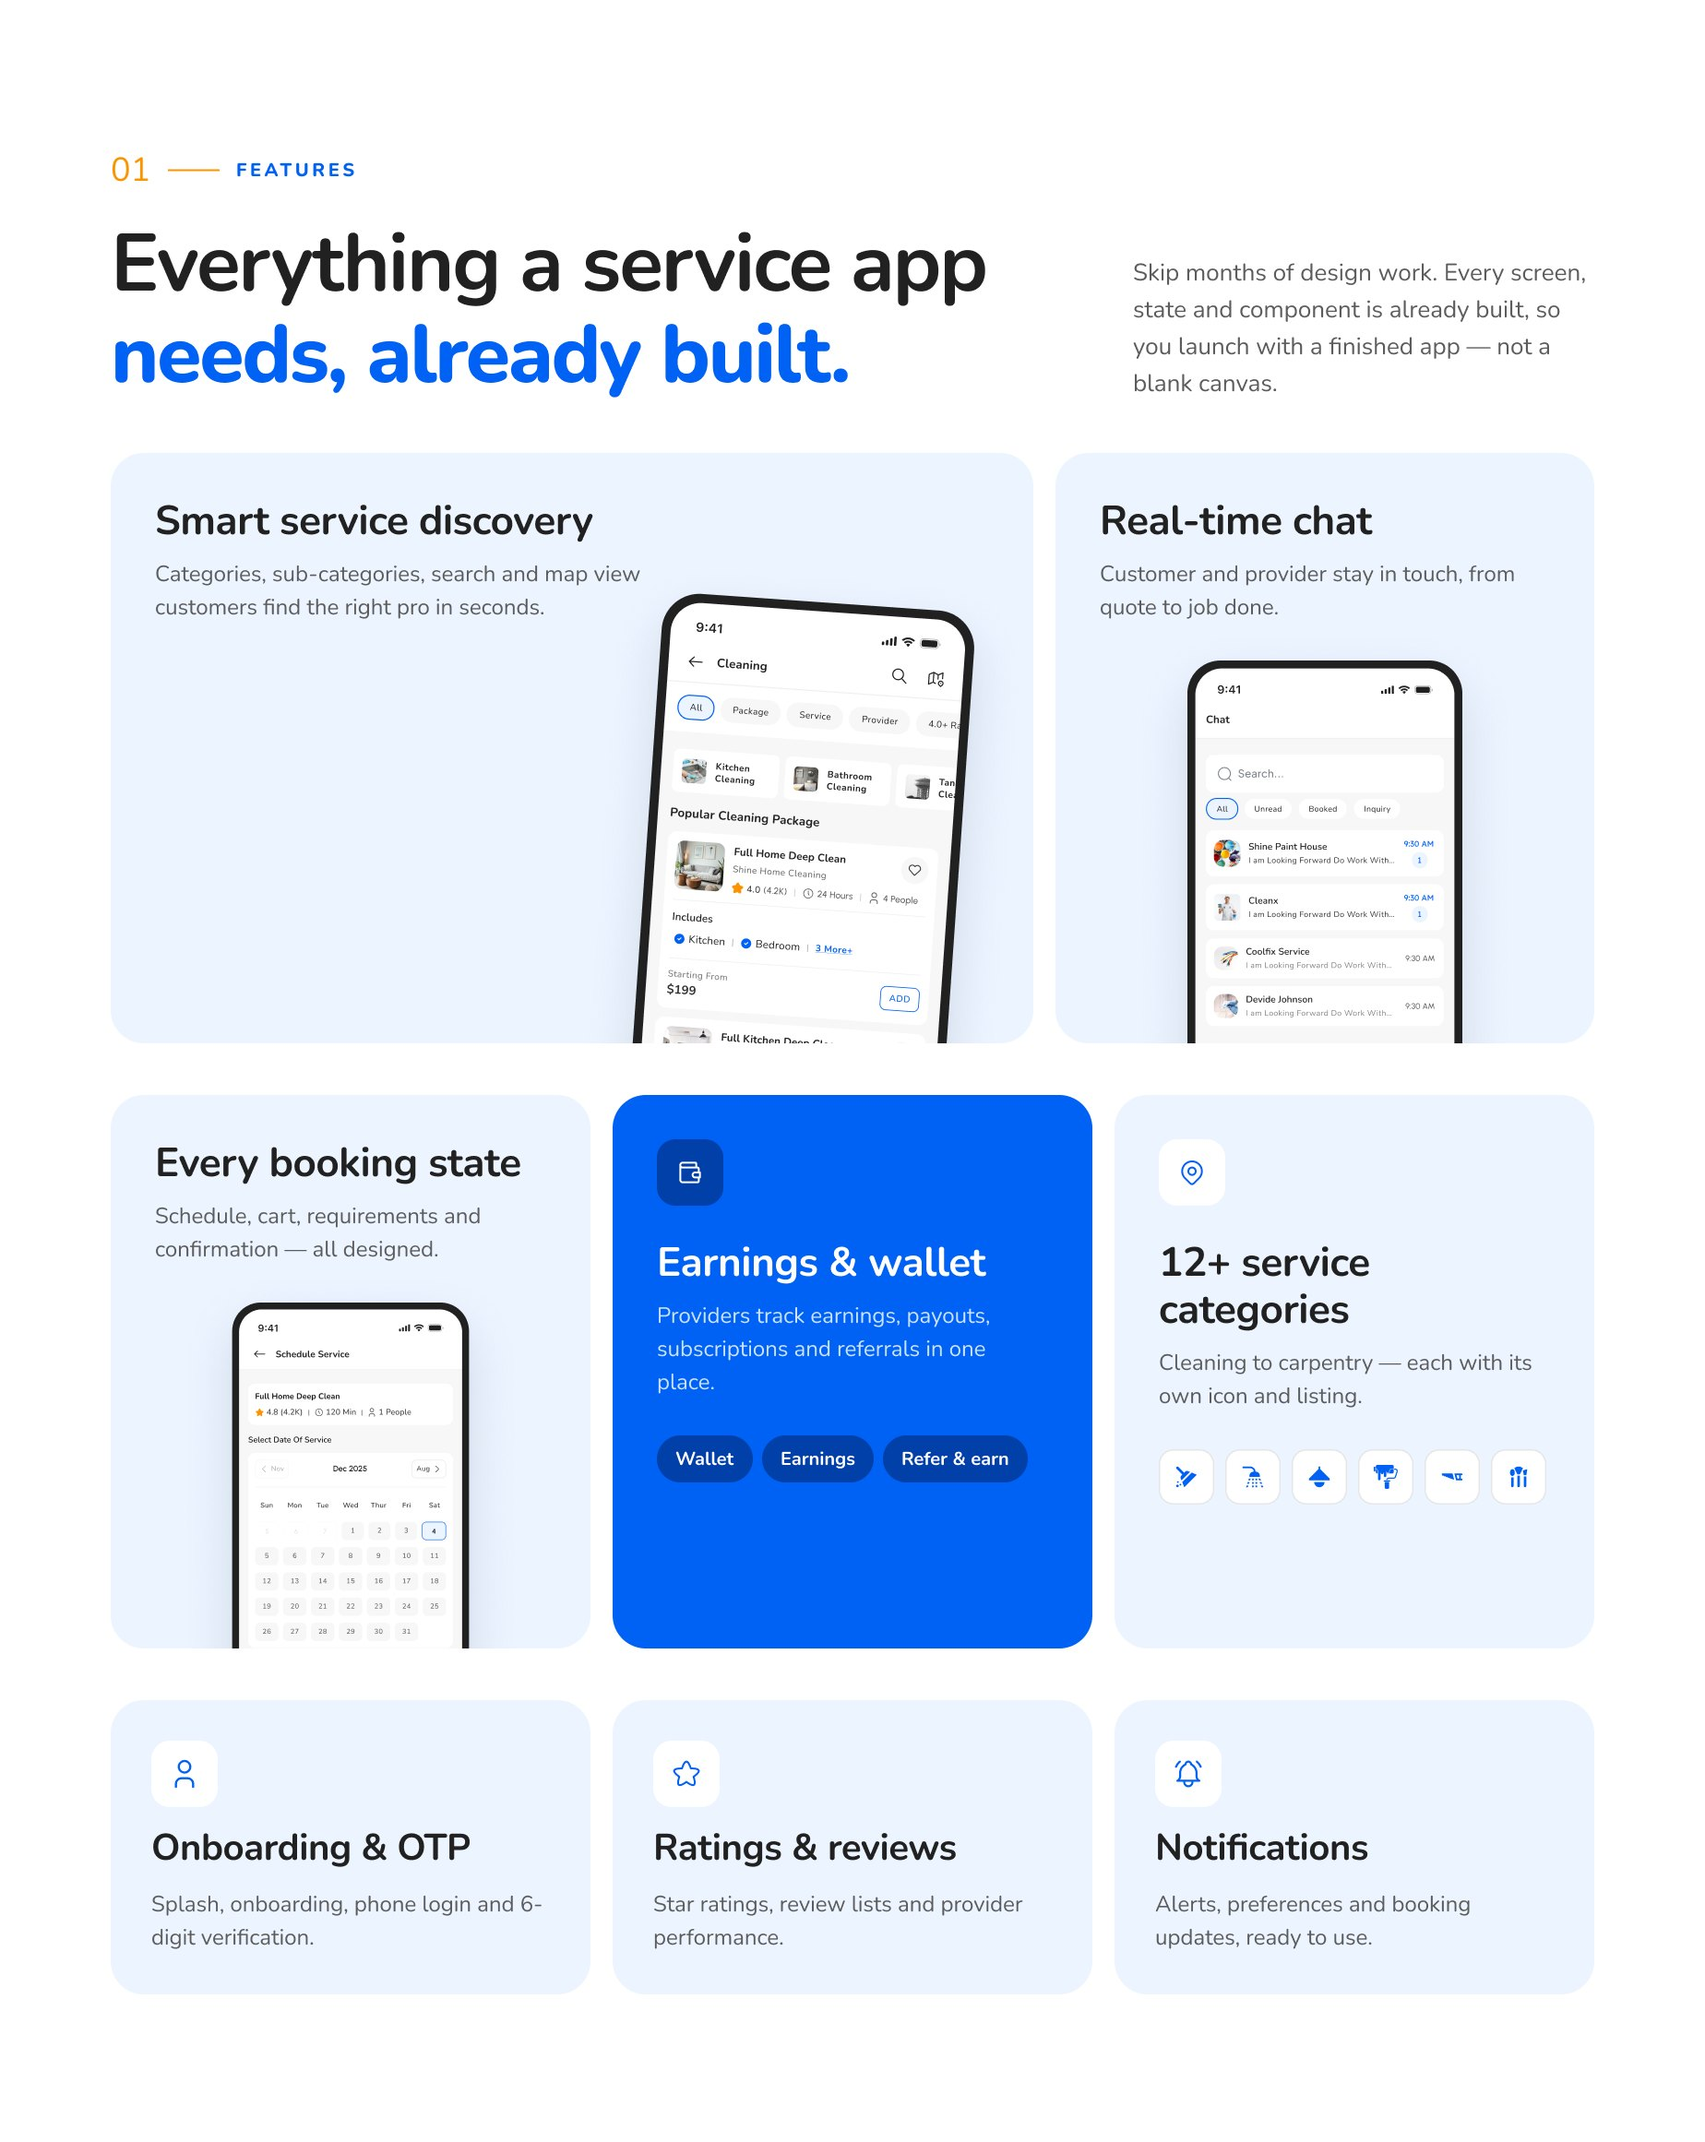
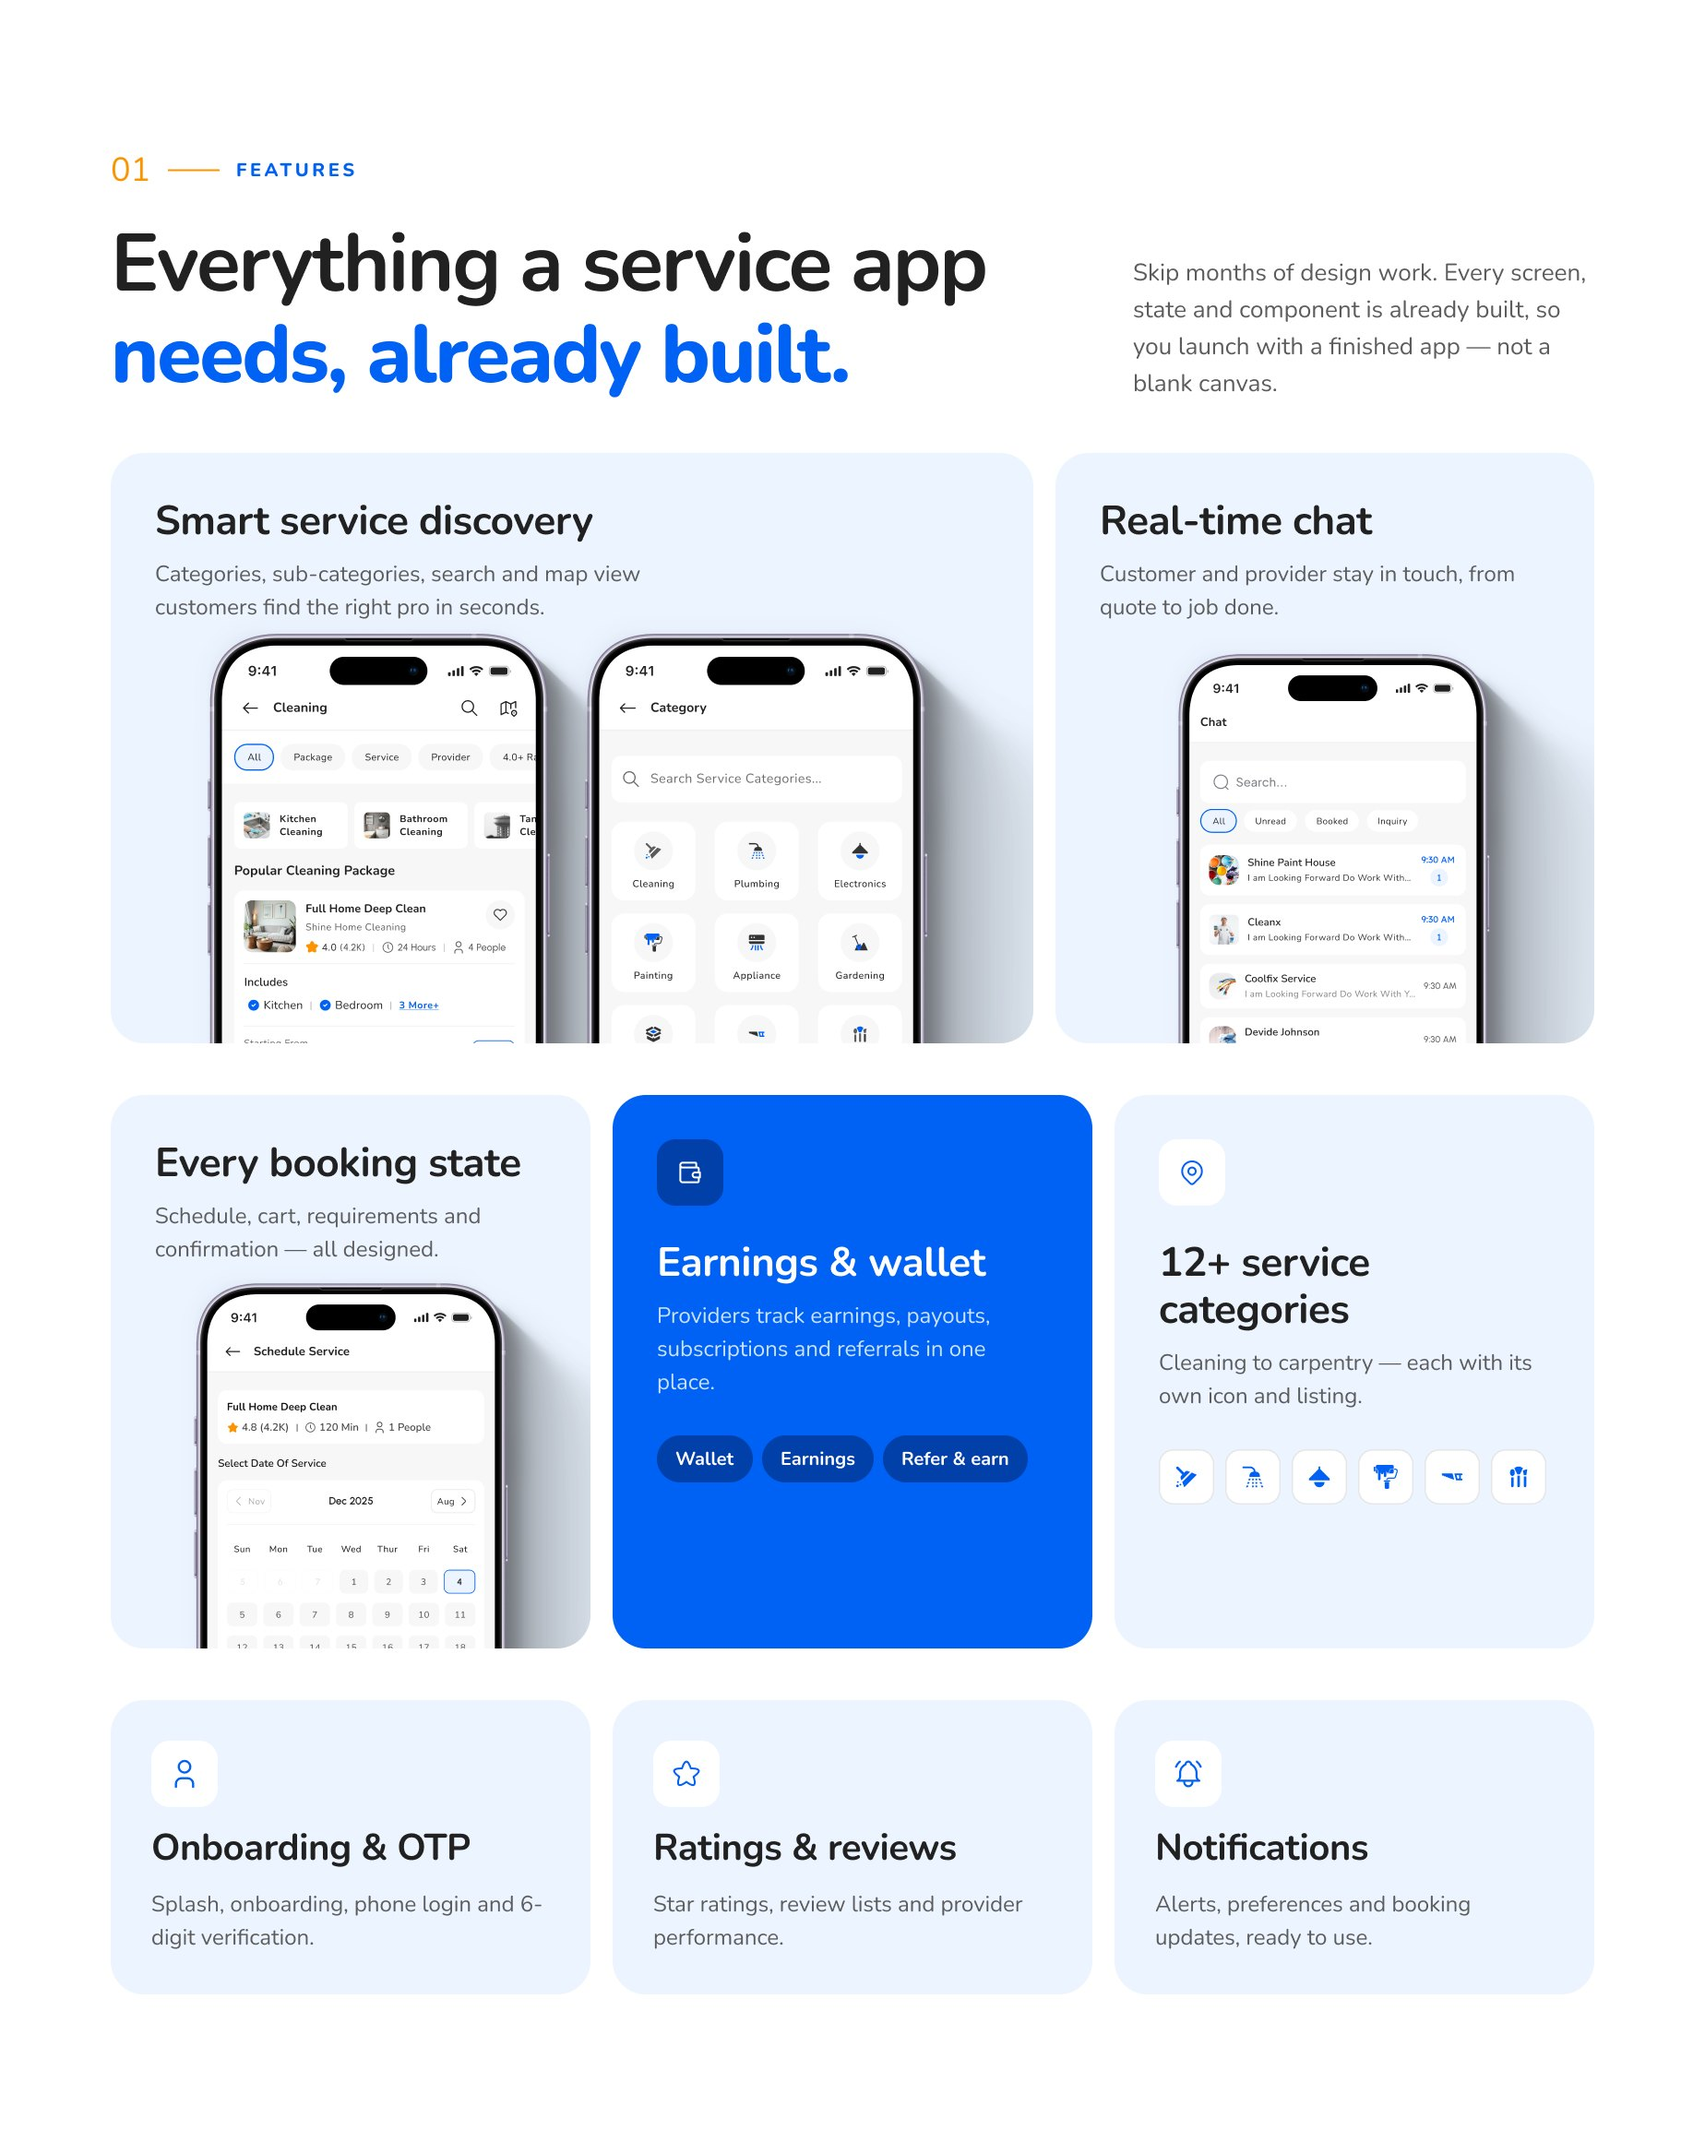
Home Service: update features and components slices

Changed region(s): [[0.1234, 0.2791, 0.6169, 0.4961], [0.6786, 0.2791, 0.9253, 0.4961], [0.0925, 0.5891, 0.3701, 0.7752]]

diff --git a/README.md b/README.md
@@ -9,6 +9,6 @@ Served through jsDelivr:
 
 | Folder | Product | Current tag |
 |---|---|---|
-| home-service | Home Service UI kit (Servly) | home-service-v1.0.1 |
+| home-service | Home Service UI kit (Servly) | home-service-v1.0.2 |
 
 No template code lives here.
